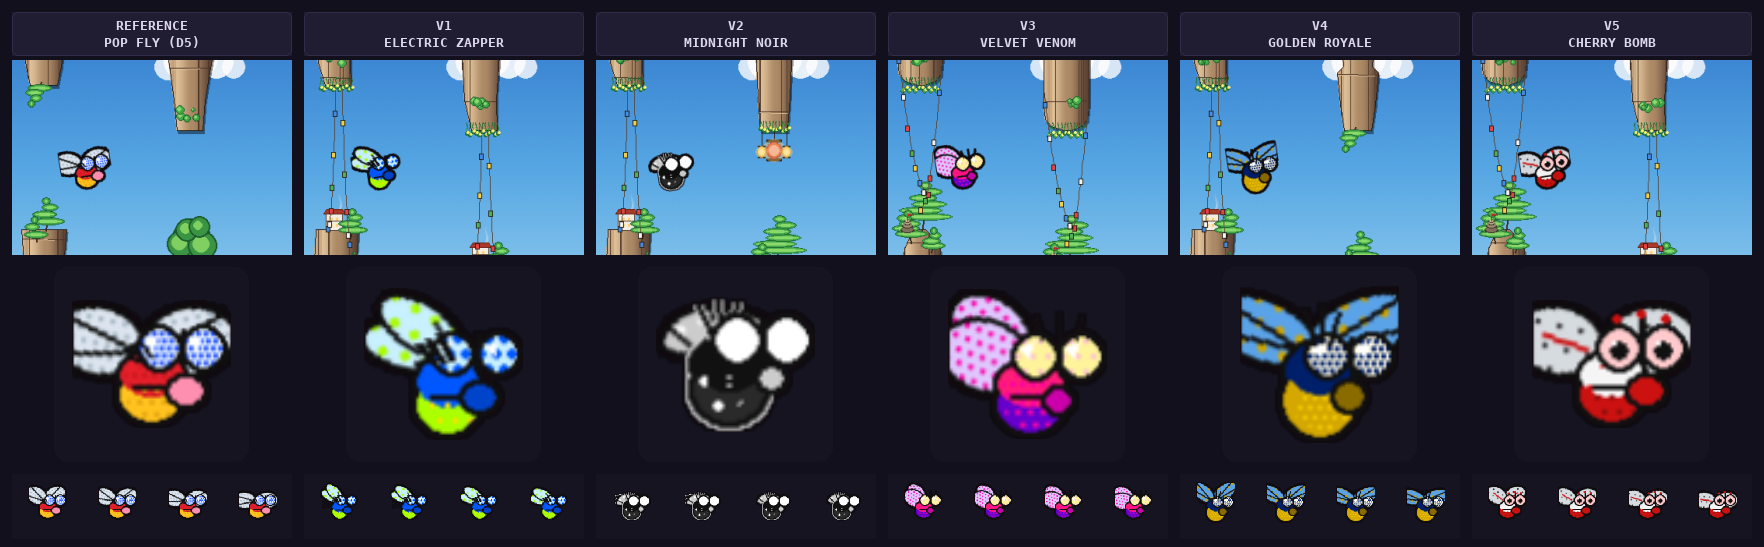
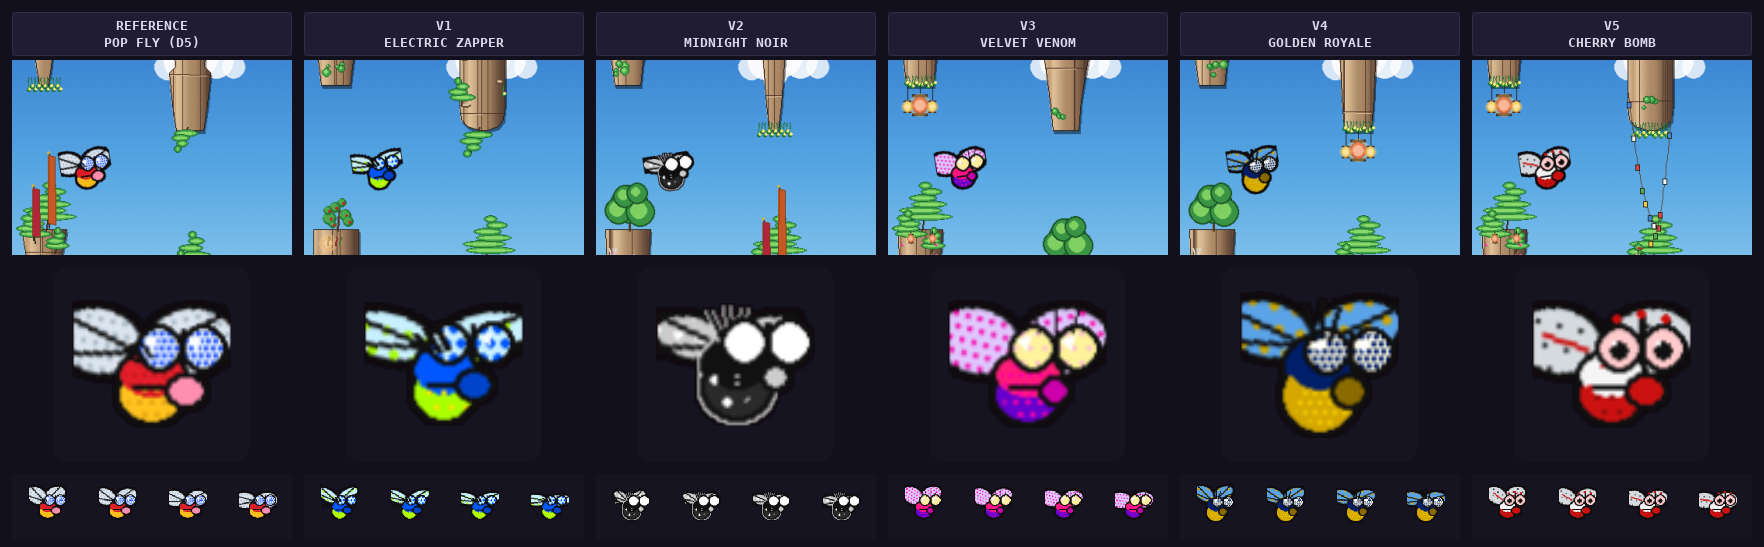
fly pop wing fix: standardize root-on-left geometry across all 5 variants — full rounded arcs, no canvas/surface clipping

diff --git a/tools/fly_candidates/pop_v1.py b/tools/fly_candidates/pop_v1.py
@@ -106,29 +106,25 @@ def _benday(target, region_pts_or_mask, color, spacing=9, radius=2, phase=0):
 
 
 # ── one short WIDE horizontal paddle-fan ──────────────────────────────────────
-# The C2 fail was tall pointed rabbit-ears. The fix is a fan that is decisively
-# WIDER than it is tall and that only ever tilts through a shallow arc, so even
-# swept it reads sideways — a paddle, never a vertical blade. The membrane long
-# axis runs horizontal; the hinge sits at the INNER (thorax) end so the whole
-# broad blade sweeps back over the barrel. Height is capped near the body height
-# (~16px) so it can never tower over the barrel.
-_WING_ROOT = (35, 14)                # inner hinge end (thorax side) of the fan
+# Root on the LEFT (hinge side, closest to body centre); the outer arc sweeps
+# to the RIGHT — same geometry as the Design 5 reference so the full rounded
+# tip is never clipped at the canvas edge or within the surface padding.
+_WING_ROOT = (8, 20)                 # hinge — left edge, canvas-safe pivot
 
 
 def _wing_surface():
-    """One short, wide cyan paddle-fan: a broad horizontal membrane ellipse, a
-    chunky lime halftone, two short hinge veins, then a 2px ink loop."""
-    w = pygame.Surface((46, 28), pygame.SRCALPHA)
-    membrane = pygame.Rect(0, 0, 34, 16)     # 34-wide × 16-tall → decisively wide
-    membrane.center = (18, 14)
+    """Short wide cyan paddle: root on left, 38×18 horizontal ellipse (wider
+    than tall) carries the lime dot grid and two veins, then a 2px ink loop.
+    Surface padded ≥ 8px on every side so the ink outline is never clipped."""
+    w = pygame.Surface((52, 40), pygame.SRCALPHA)
+    membrane = pygame.Rect(0, 0, 38, 18)     # decisively wider than tall
+    membrane.center = (26, 20)
     pygame.draw.ellipse(w, WINGMEM, membrane)
-    # Big sparse lime dots so a few survive the truth-scale shrink as real dots.
-    emask = pygame.Surface((46, 28), pygame.SRCALPHA)
+    emask = pygame.Surface((52, 40), pygame.SRCALPHA)
     pygame.draw.ellipse(emask, (255, 255, 255, 255), membrane)
     _benday(w, emask, WINGDOT, spacing=9, radius=2)
-    # Two short veins fan off the hinge only — the outer half stays a clean arc.
-    pygame.draw.line(w, INK, _WING_ROOT, (22, 9), 2)
-    pygame.draw.line(w, INK, _WING_ROOT, (22, 19), 2)
+    pygame.draw.line(w, INK, _WING_ROOT, (43, 14), 2)
+    pygame.draw.line(w, INK, _WING_ROOT, (43, 26), 2)
     return _ink_outline(w, 2)
 
 
@@ -159,17 +155,16 @@ def build_pop_v1(wing_angle_deg):
             pygame.draw.line(surf, INK, (4, y + 2), (11, y), 1)
             pygame.draw.line(surf, INK, (11, y), (18, y - 1), 1)
 
-    # Two short WIDE paddle-fans hinge at the thorax shoulder and sweep back
-    # over the barrel through a shallow arc. Both blades rake up-and-back (to
-    # the left, the tail direction) so the pair reads as swept fly wings, not a
-    # vertical butterfly V. The lower blade stays near-level for maximum "wide";
-    # the upper blade rides up as the beat peaks — a clear sweep across 4 frames
-    # that never lets either fan stand taller than the body.
+    # Two broad fans sweep up-and-back off the shoulder — root on the body side,
+    # outer rounded arc extending away from centre. Mirrored pair (one per side)
+    # using the same root-on-left geometry as the Design 5 reference so neither
+    # outer arc clips the canvas edge or the body centre.
     wing = _wing_surface()
-    ang_lower = -(6 + f * 18)               # near-level → decisively sideways
-    ang_upper = -(26 + f * 18)              # raked up-back, ~20° above the lower
-    _place_rotated(surf, wing, _WING_ROOT, ang_lower, (33, 30))
-    _place_rotated(surf, wing, _WING_ROOT, ang_upper, (35, 28))
+    ang = 3 + f * 30
+    left = pygame.transform.flip(wing, True, False)
+    left_root = (wing.get_width() - 1 - _WING_ROOT[0], _WING_ROOT[1])
+    _place_rotated(surf, wing, _WING_ROOT, ang, (30, 31))
+    _place_rotated(surf, left, left_root, -ang, (26, 31))
 
     # ── one continuous inked barrel: blue thorax fused into lime abdomen ──
     # Thorax and abdomen overlap heavily and share close radii so the outline

diff --git a/tools/fly_candidates/pop_v2.py b/tools/fly_candidates/pop_v2.py
@@ -123,27 +123,25 @@ def _benday(target, region_pts_or_mask, color, spacing=9, radius=2, phase=0):
 
 
 # ── one short, wide fan swept behind/below the body ───────────────────────────
-# The R2 grey dot mass out-massed the black hero. Here the wing is a small squat
-# ellipse (wider than tall) rooted at its base so the PAIR tucks behind and below
-# the barrel, peeking out rather than hooding over it. The round body must stay
-# the biggest silhouette on screen.
-_WING_ROOT = (17, 21)
+# Root on the LEFT (hinge, body side); the outer rounded arc sweeps RIGHT.
+# Kept intentionally small so the pair tucks BEHIND the barrel — the body
+# must win the biggest-silhouette fight. Surface padded ≥ 8px all round so
+# the ink loop is never clipped within the surface itself.
+_WING_ROOT = (8, 18)
 
 
 def _wing_surface():
-    """One short, wide pop-art fan: a squat #CCCCCC membrane ellipse (wider than
-    tall), a sparse white Ben-Day sparkle, two small ink veins, then a 2px ink
-    loop. Deliberately kept small so the pair reads as swept-back wings BEHIND
-    the barrel, never a grey hood over the black hero."""
-    w = pygame.Surface((34, 24), pygame.SRCALPHA)
-    membrane = pygame.Rect(0, 0, 24, 13)        # squat: wider than tall
-    membrane.center = (17, 11)
+    """Small squat grey fan: root on left, 28×16 horizontal ellipse (wider than
+    tall) so the outer arc stays a clean rounded lobe, never a cut flat edge."""
+    w = pygame.Surface((44, 36), pygame.SRCALPHA)
+    membrane = pygame.Rect(0, 0, 28, 16)
+    membrane.center = (22, 18)
     pygame.draw.ellipse(w, WINGGREY, membrane)
-    emask = pygame.Surface((34, 24), pygame.SRCALPHA)
+    emask = pygame.Surface((44, 36), pygame.SRCALPHA)
     pygame.draw.ellipse(emask, (255, 255, 255, 255), membrane)
     _benday(w, emask, WINGDOT, spacing=9, radius=2)
-    pygame.draw.line(w, INK, _WING_ROOT, (7, 7), 2)
-    pygame.draw.line(w, INK, _WING_ROOT, (24, 7), 2)
+    pygame.draw.line(w, INK, _WING_ROOT, (34, 12), 2)
+    pygame.draw.line(w, INK, _WING_ROOT, (34, 24), 2)
     return _ink_outline(w, 2)
 
 
@@ -174,15 +172,15 @@ def build_pop_v2(wing_angle_deg):
             pygame.draw.line(surf, SPEEDLN, (4, y + 2), (11, y), 1)
             pygame.draw.line(surf, SPEEDLN, (11, y), (18, y - 1), 1)
 
-    # Two short squat fans tuck behind and below the barrel off a low shoulder
-    # anchor; they lift a little on the wing-up frames but never rise into a hood
-    # over the body — the black barrel stays the largest shape.
+    # Two small fans sweep up-and-back off the shoulder — mirrored pair with
+    # root on the body side and rounded arc on the outside. Kept small so the
+    # black barrel remains the dominant silhouette, not the grey wings.
     wing = _wing_surface()
-    ang = 16 + f * 22
+    ang = 3 + f * 30
     left = pygame.transform.flip(wing, True, False)
     left_root = (wing.get_width() - 1 - _WING_ROOT[0], _WING_ROOT[1])
-    _place_rotated(surf, wing, _WING_ROOT, -ang, (33, 37))
-    _place_rotated(surf, left, left_root, ang, (23, 37))
+    _place_rotated(surf, wing, _WING_ROOT, ang, (30, 32))
+    _place_rotated(surf, left, left_root, -ang, (26, 32))
 
     # ── HERO SILHOUETTE: one round inked barrel, rimmed for night survival ──
     body = _new()

diff --git a/tools/fly_candidates/pop_v4.py b/tools/fly_candidates/pop_v4.py
@@ -109,25 +109,19 @@ _WING_ROOT = (8, 24)
 
 
 def _wing_surface():
-    """One fat rounded pop-art lobe: a wide, shallow sky-blue membrane ellipse,
-    a chunky gold halftone, two shallow black veins, then a clean 2px ink loop.
-
-    The membrane is a horizontal ellipse (much wider than tall) so the tip
-    stays a rounded blue lobe after the downscale — never an upright spade."""
-    w = pygame.Surface((56, 46), pygame.SRCALPHA)
-    membrane = pygame.Rect(0, 0, 46, 23)
-    membrane.center = (28, 23)
+    """One fat rounded pop-art lobe: 36×22 sky-blue horizontal ellipse (wider
+    than tall), chunky gold halftone, two shallow veins, then a 2px ink loop.
+    Surface padded ≥ 8px on every side — the full rounded outer arc is never
+    clipped within the surface or at the canvas edge."""
+    w = pygame.Surface((52, 44), pygame.SRCALPHA)
+    membrane = pygame.Rect(0, 0, 36, 22)
+    membrane.center = (26, 22)
     pygame.draw.ellipse(w, WINGBLUE, membrane)
-    # A few big chunky gold dots read as true Ben-Day at 40px; the old fine
-    # grid dissolved into speckle, so this uses wide spacing + fat radius for
-    # roughly three-to-four unmistakable dots per wing at truth scale.
-    emask = pygame.Surface((56, 46), pygame.SRCALPHA)
+    emask = pygame.Surface((52, 44), pygame.SRCALPHA)
     pygame.draw.ellipse(emask, (255, 255, 255, 255), membrane)
     _benday(w, emask, WINGDOT, spacing=9, radius=2, phase=3)
-    # Shallow veins radiate from the root so the outer edge stays a soft round
-    # arc — steep veins used to pull the tip to a point.
-    pygame.draw.line(w, INK, _WING_ROOT, (47, 17), 2)
-    pygame.draw.line(w, INK, _WING_ROOT, (47, 30), 2)
+    pygame.draw.line(w, INK, _WING_ROOT, (44, 16), 2)
+    pygame.draw.line(w, INK, _WING_ROOT, (44, 30), 2)
     return _ink_outline(w, 2)
 
 
@@ -157,15 +151,15 @@ def build_pop_v4(wing_angle_deg):
             pygame.draw.line(surf, INK, (5, y + 2), (12, y), 1)
             pygame.draw.line(surf, INK, (12, y), (19, y - 1), 1)
 
-    # Two fat lobes sweep up-and-back over the thorax; the lower base angle
-    # lays them back past the body instead of standing them up like ears, and
-    # they open a touch on the wing-up frames.
+    # Mirrored pair of fat lobes — root on body side, rounded arc on outside.
+    # Design-5 geometry (root at left in surface) keeps the outer tip within
+    # the 64px canvas at all four flap angles.
     wing = _wing_surface()
-    ang = 14 + f * 26
+    ang = 3 + f * 30
     left = pygame.transform.flip(wing, True, False)
     left_root = (wing.get_width() - 1 - _WING_ROOT[0], _WING_ROOT[1])
-    _place_rotated(surf, wing, _WING_ROOT, ang, (31, 30))
-    _place_rotated(surf, left, left_root, -ang, (25, 30))
+    _place_rotated(surf, wing, _WING_ROOT, ang, (30, 30))
+    _place_rotated(surf, left, left_root, -ang, (26, 30))
 
     # ── one FAT inked peanut: navy thorax fused into gold abdomen ──
     # The whole barrel is laid down as a SINGLE continuous gold silhouette

diff --git a/tools/fly_candidates/pop_v3.py b/tools/fly_candidates/pop_v3.py
@@ -151,18 +151,15 @@ def build_pop_v3(wing_angle_deg):
             pygame.draw.line(surf, INK, (5, y + 2), (12, y), 1)
             pygame.draw.line(surf, INK, (12, y), (19, y - 1), 1)
 
-    # Both fans sweep UP-and-BACK over the shoulders (never forward over the
-    # face) so the right-side eye domes stay clean on every pose. A layered
-    # pair — one upright, one lower — fans open on the wing-up beats.
+    # One mirrored pair of fans sweep up-and-back off the shoulder — root on the
+    # body side, rounded outer arc on the away side. Design-5 geometry (root at
+    # left in the surface) so neither outer tip clips the canvas or each other.
     wing = _wing_surface()
-    back = pygame.transform.flip(wing, True, False)   # points left from a right-edge root
-    back_root = (wing.get_width() - 1 - _WING_ROOT[0], _WING_ROOT[1])
-    ang_far  = 40 + f * 18
-    ang_near = 14 + f * 18
-    # Anchored a touch further back over the shoulder so the fans clear the
-    # left eye dome — both domes then sit on clean ground and read as a pair.
-    _place_rotated(surf, back, back_root, -ang_far,  (28, 34))
-    _place_rotated(surf, back, back_root, -ang_near, (30, 36))
+    ang = 5 + f * 28
+    left = pygame.transform.flip(wing, True, False)
+    left_root = (wing.get_width() - 1 - _WING_ROOT[0], _WING_ROOT[1])
+    _place_rotated(surf, wing, _WING_ROOT, ang, (29, 31))
+    _place_rotated(surf, left, left_root, -ang, (27, 31))
 
     # ── one round inked barrel: hot-pink thorax fused into purple abdomen ──
     body = _new()
